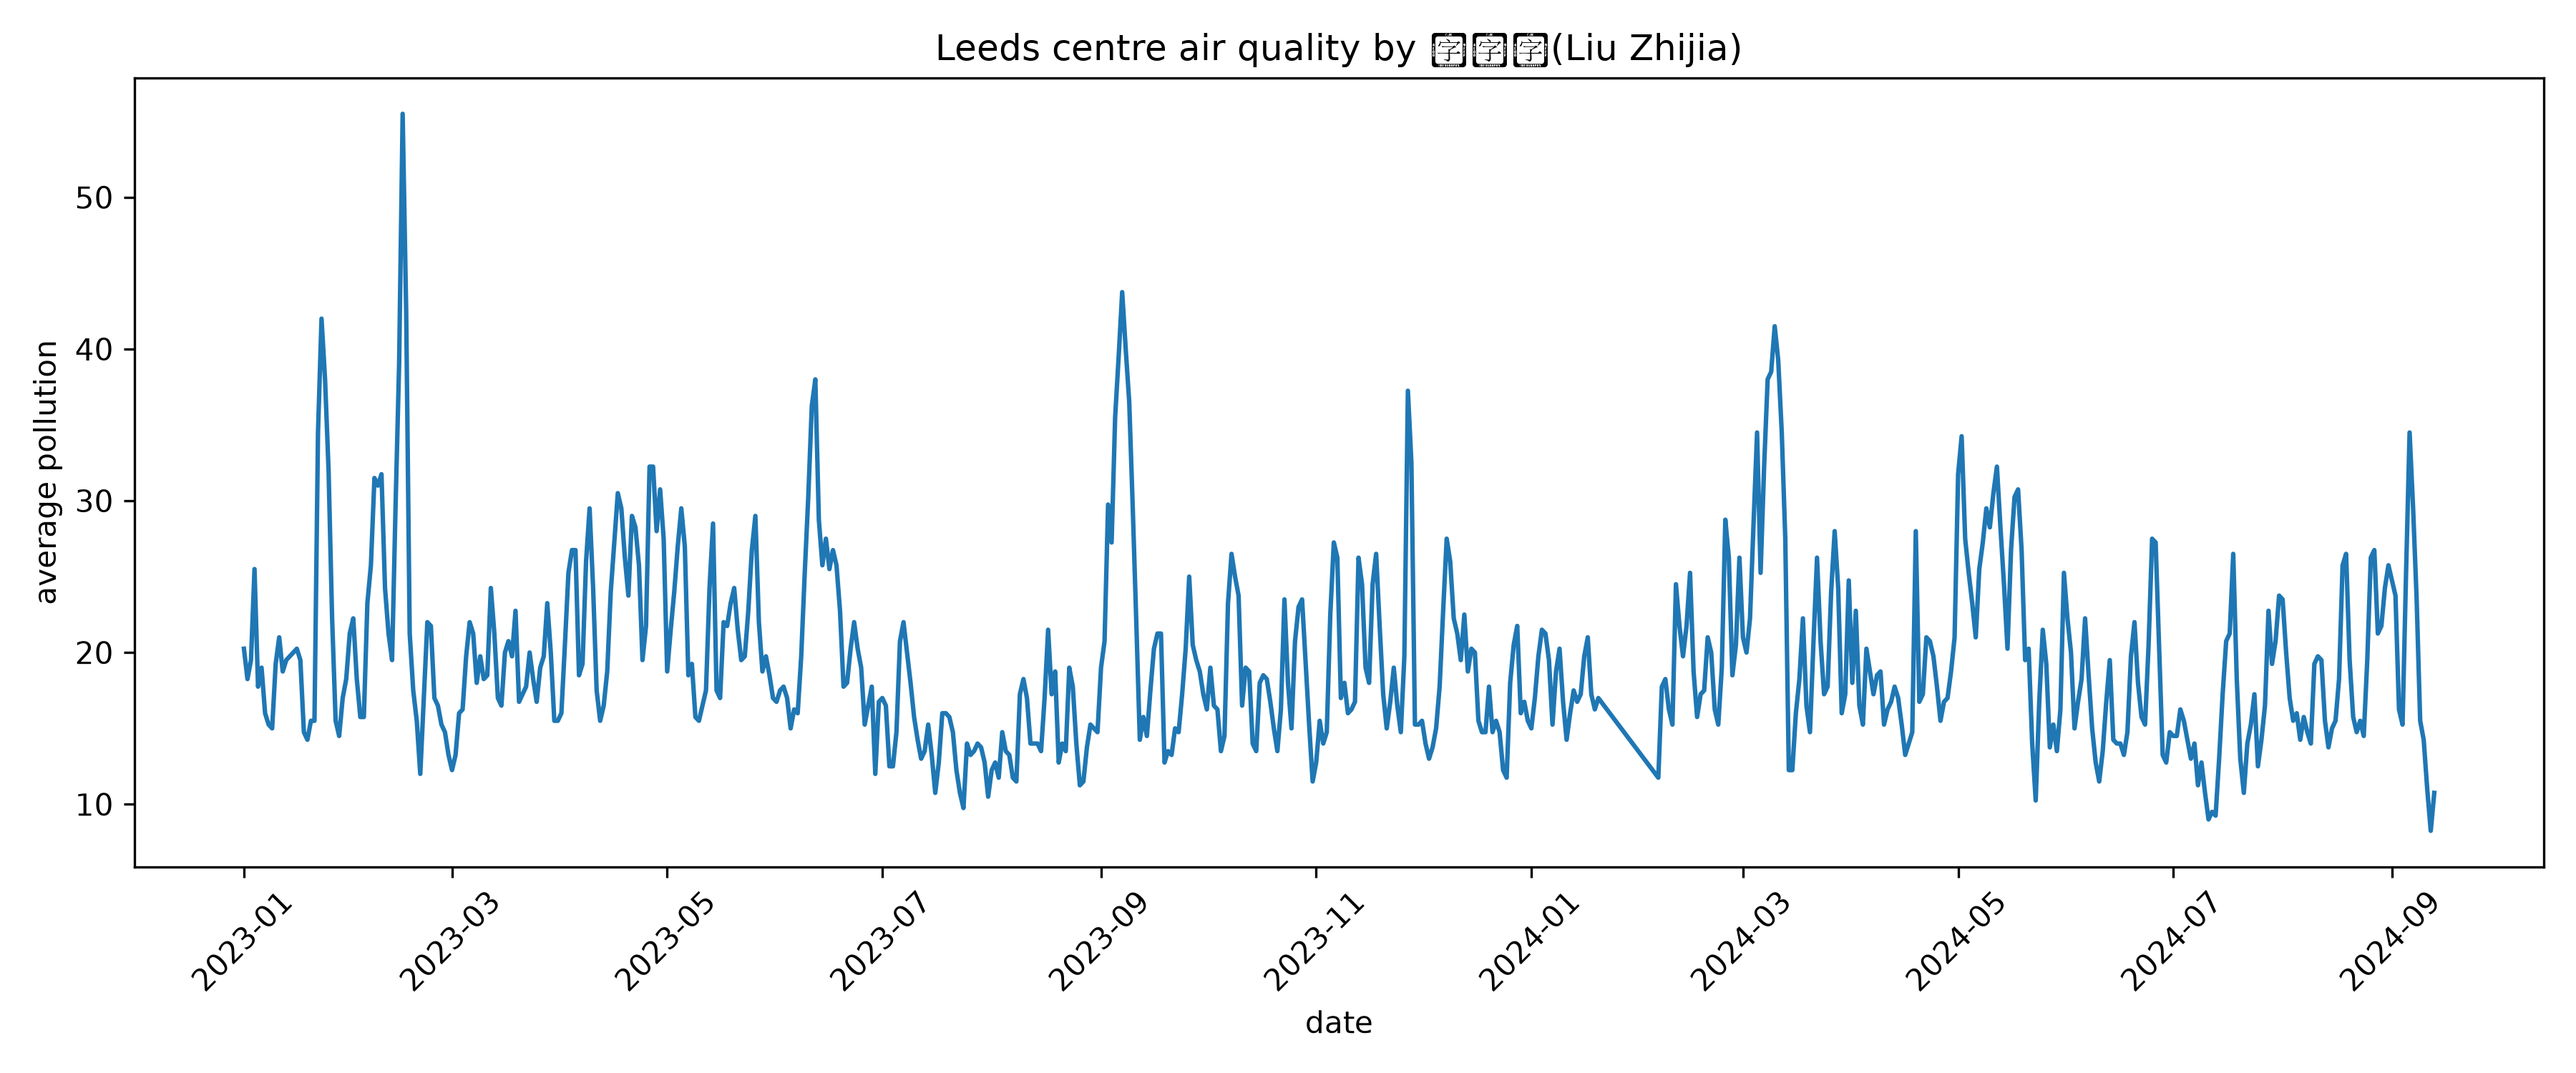
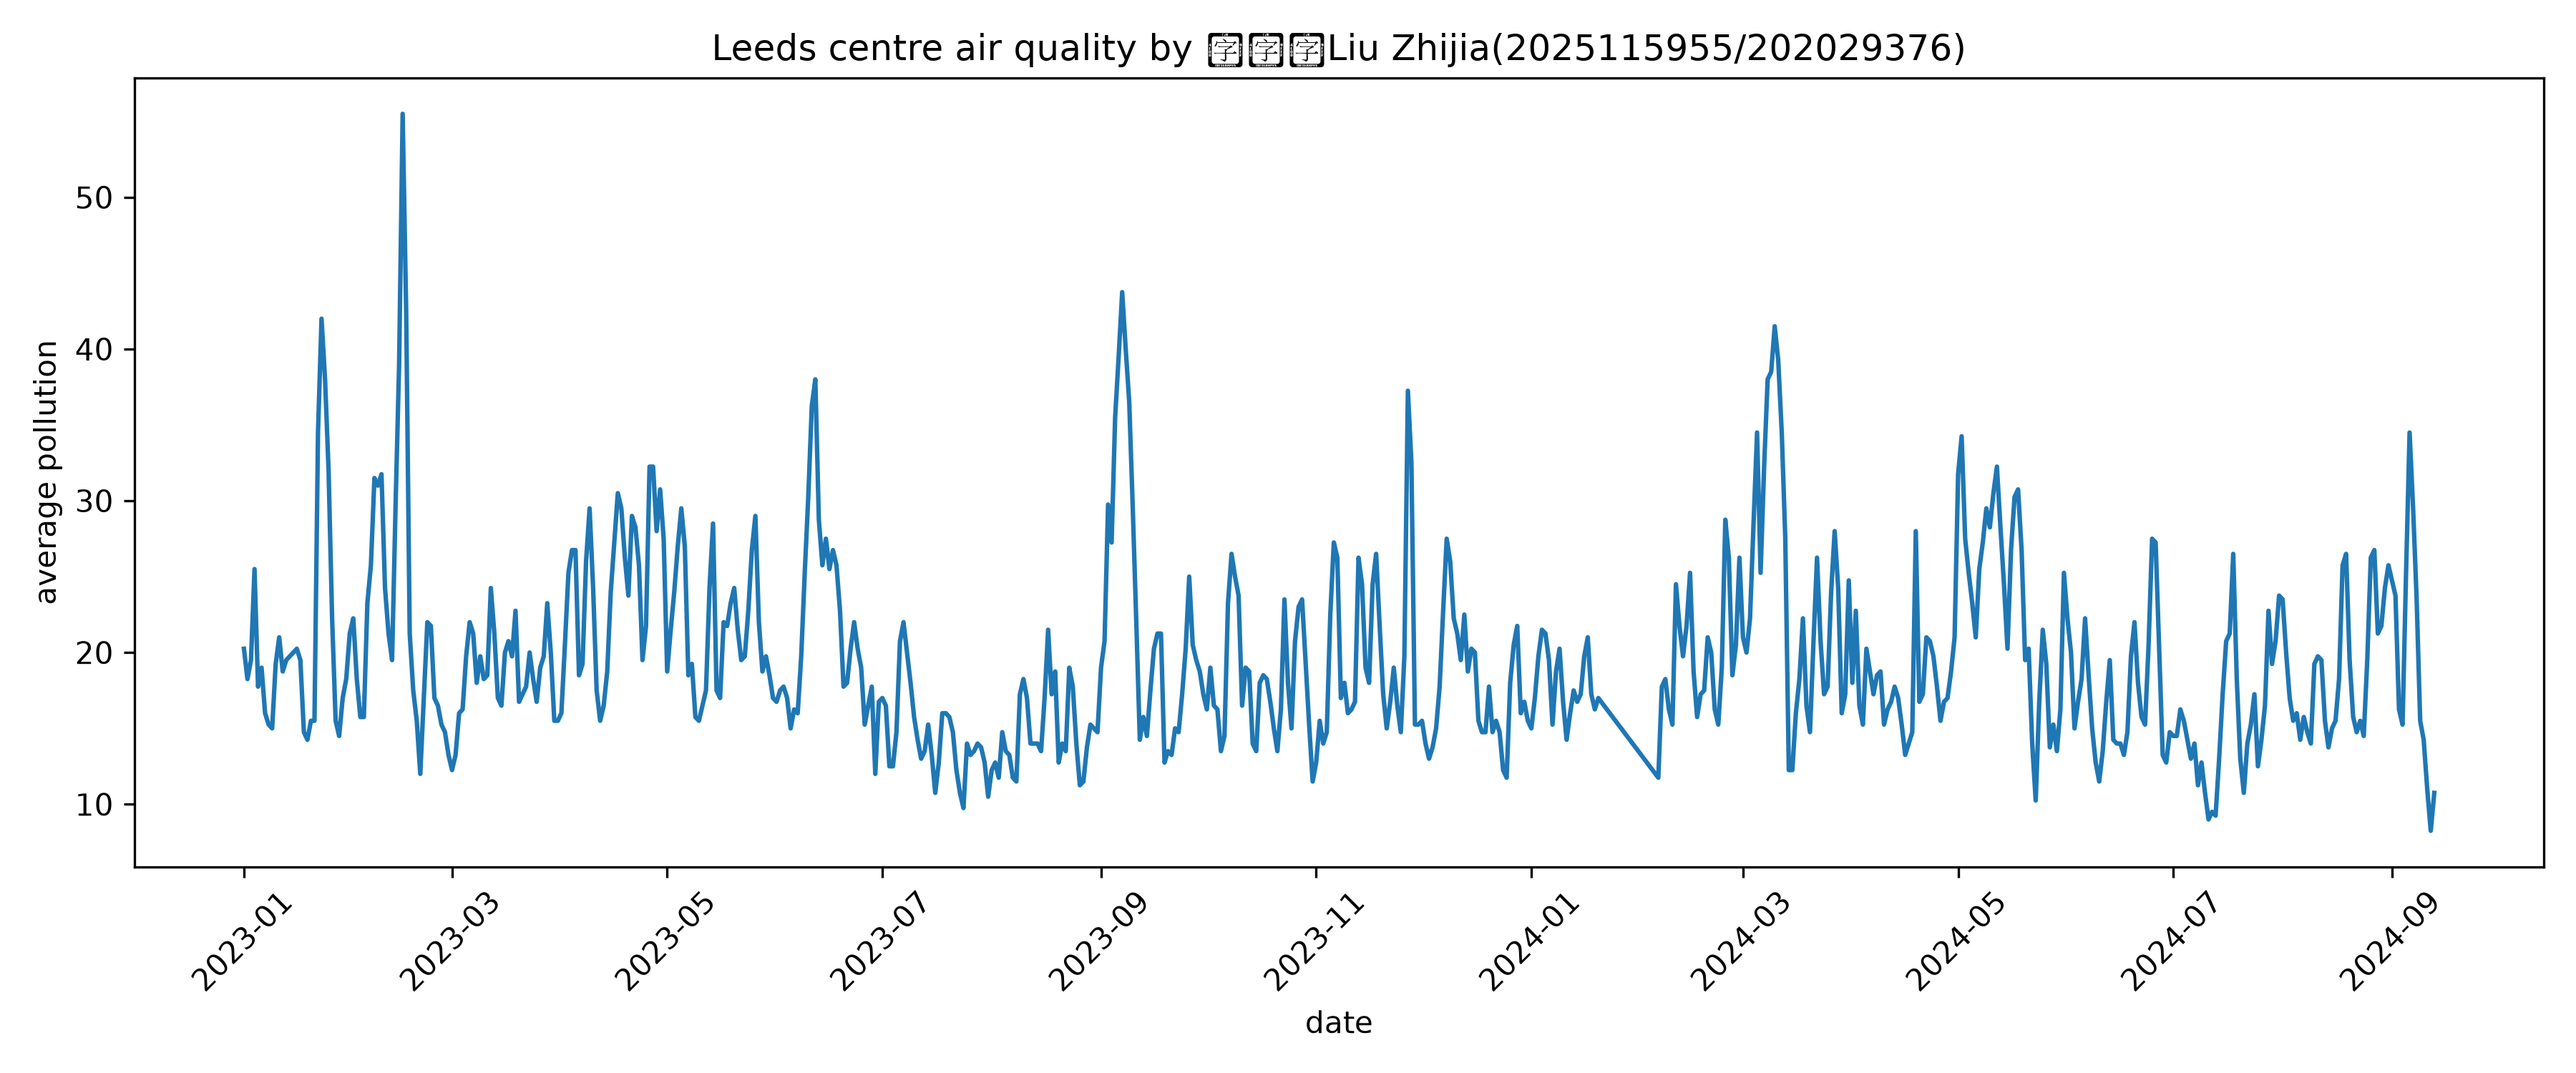
finish

Changed region(s): [[0.28, 0.0307, 0.7778, 0.0613]]

diff --git a/air-plotter.py b/air-plotter.py
@@ -21,7 +21,7 @@ plt.figure(figsize=(12,5))
 plt.plot(base_infor["date"], base_infor["average_pollution"])
 plt.xlabel("date")
 plt.ylabel("average pollution")
-plt.title("Leeds centre air quality by 刘智嘉(Liu Zhijia)")
+plt.title("Leeds centre air quality by 刘智嘉Liu Zhijia(2025115955/202029376)")
 plt.xticks(rotation=45)
 plt.tight_layout()
 plt.savefig("air_quality_plot.png",dpi=300)
